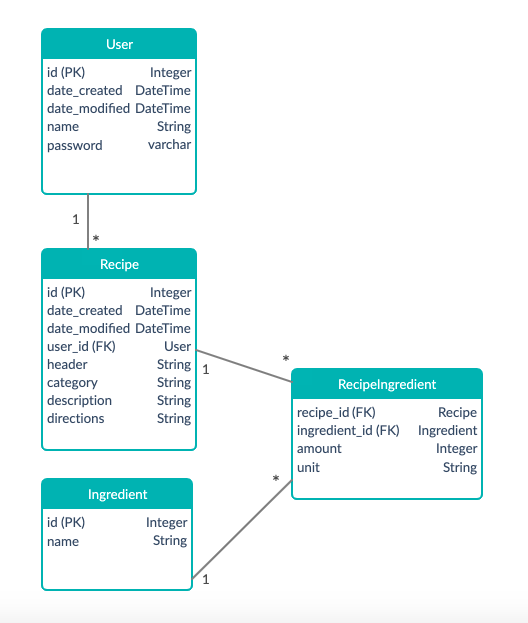
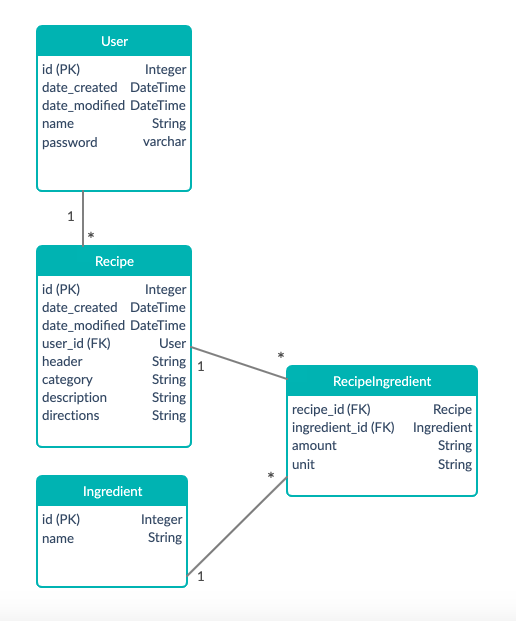
fixed database picture

diff --git a/application/recipes/models.py b/application/recipes/models.py
@@ -54,7 +54,7 @@ class Recipe(Base):
 class RecipeIngredient(db.Model):
     id = db.Column(db.Integer, primary_key=True)
 
-    amount = db.Column(db.Float, nullable=True)
+    amount = db.Column(db.String(50), nullable=True)
     unit = db.Column(db.String(50), nullable=True)
 
     recipe_id = db.Column(db.Integer, db.ForeignKey('recipe.id'),
